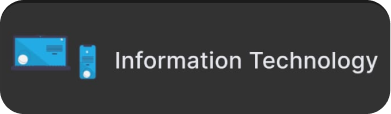
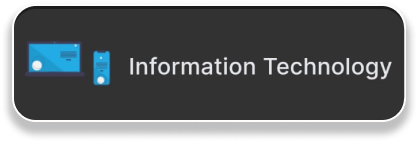
adding border and hover to overlapping cards

diff --git a/src/app/(about)/features.tsx b/src/app/(about)/features.tsx
@@ -36,7 +36,6 @@ function FeaturesSection() {
             width: "30%",
             height: "auto",
           },
-          
         },
         {
           src: EventCard2,
@@ -50,7 +49,7 @@ function FeaturesSection() {
         },
       ],
       podiumStyle: {
-        marginRight: "45px", // example adjustment
+        marginRight: "45px",
       },
     },
     {
@@ -71,7 +70,7 @@ function FeaturesSection() {
         },
       ],
       podiumStyle: {
-        marginLeft: "50px", // example adjustment
+        marginLeft: "50px",
       },
     },
     {
@@ -102,7 +101,7 @@ function FeaturesSection() {
       ],
 
       podiumStyle: {
-        marginRight: "50px", // example adjustment
+        marginRight: "50px",
       },
     },
     {
@@ -119,6 +118,10 @@ function FeaturesSection() {
             left: "8%",
             width: "40%",
             height: "auto",
+            // temp styling (replicating the figma card style)
+            border: "1px solid white",
+            borderRadius: "12px",
+            boxShadow: "0 4px 12px rgba(0,0,0,0.4)"
           },
         },
         {
@@ -134,7 +137,7 @@ function FeaturesSection() {
       ],
 
       podiumStyle: {
-        marginLeft: "50px", // example adjustment
+        marginLeft: "50px",
       },
     },
     {
@@ -166,7 +169,7 @@ function FeaturesSection() {
       ],
 
       podiumStyle: {
-        marginRight: "50px", // example adjustment
+        marginRight: "50px",
       },
     },
     {
@@ -198,7 +201,7 @@ function FeaturesSection() {
       ],
 
       podiumStyle: {
-        marginLeft: "70px", // example adjustment
+        marginLeft: "70px",
       },
     },
   ];

diff --git a/src/components/PhoneDisplay.tsx b/src/components/PhoneDisplay.tsx
@@ -4,6 +4,7 @@ import Image, { StaticImageData } from "next/image";
 import React, { useRef } from "react";
 import podium from "../public/podium.png";
 import { motion, useInView } from "framer-motion";
+import { M_PLUS_1 } from "next/font/google";
 
 interface PhoneDisplayProps {
   phoneImage: string | StaticImageData;
@@ -65,7 +66,11 @@ const PhoneDisplay: React.FC<PhoneDisplayProps> = ({
               delay: 0.2 + index * 0.2,
               ease: "easeOut",
             }}
-            className="absolute z-[3]"
+            whileHover={{
+              scale: 1.05,
+              transition: {duration: 0.3}
+            }}
+            className="absolute z-[3] cursor-pointer"
             style={card.style}
           >
             <Image src={card.src} alt={card.alt} />
